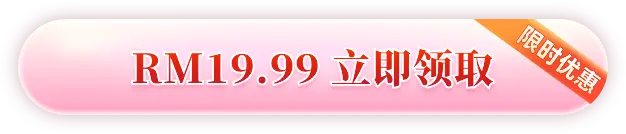
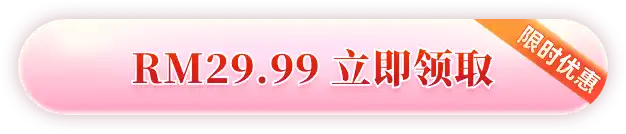
feat:感情运报告修改价格

diff --git a/src/components/PayItem.vue b/src/components/PayItem.vue
@@ -1,0 +1,153 @@
+<template>
+  <div class="pay-item">
+    <div class="pay-contaienr">
+      <div class="left">
+        <div class="title">您有待支付订单</div>
+        <div class="desc">已根据您的八字信息成功生成「报告」</div>
+      </div>
+      <div class="right">立即支付</div>
+    </div>
+    <div class="time">
+      <div>请在</div>
+      <count-down :time="time" @change="getTime" />
+      <div>内完成支付</div>
+    </div>
+
+  </div>
+
+</template>
+
+<script>
+import utils from '../libs/utils';
+import { getLastOrderGetAPI } from '../api/api';
+const lang = utils.getLanguage();
+const show_info = {
+  h5_wealth2024: {module: 10005, 'content_id': -10020, 'event_name': 'view_2024wealty_download', type: 'view'}, // 2024年财运
+  h5_annual2024: {module: 10003, 'content_id': -10020, 'event_name': 'view_2024report_download', type: 'view'}, // 2024年年运
+  h5_weigh_bone: {module: 10009, 'content_id': -10020, 'event_name': 'view_chenggu_download', type: 'view'}, // 袁天罡秤骨
+  h5_bai_gua: {module: 10008, 'content_id': -10020, 'event_name': 'view_64gua_download', type: 'view'}, // 鬼谷子
+  h5_emotion2024: {module: 10006, 'content_id': -10029, 'event_name': 'view_2024lovely_download', type: 'view'}, // 2024年爱情运势
+  h5_marriage: {module: 10007, 'content_id': -10031, 'event_name': 'view_marriage_download', type: 'view'}, //合婚
+  h5_career2024: {module: 10004, 'content_id': -10020, 'event_name': 'view_2024career_download', type: 'view'}, // 2024年事业运势 
+}
+import { CountDown } from 'vant';
+export default {
+  components: {
+    CountDown,
+  },
+  data() {
+    return {
+      time: 0 * 1 * 60 * 1000,
+      last_order: null,
+    };
+  },
+  props: {
+    product_key: {
+      type: String,
+      default: 'h5_emotion2024'
+    },
+  },
+
+  async created() {
+    const res = await getLastOrderGetAPI();
+    console.log('res', res)
+    if (res.status !== 1000) return;
+    this.last_order = res.data;
+  },
+
+  computed: {
+    user_number() {
+      return this.$store.state.year_user;
+    },
+  },
+  methods: {
+    getTime(val) {
+      const { minutes, seconds } = val;
+      let time_ = minutes * seconds * 60 * 1000;
+      localStorage.setItem(`mlxz_count_pay_item_${this.product_key}`, time_);
+    },
+  },
+};
+</script>
+
+<style scoped lang="less">
+.pay-item {
+  width: 7.1rem;
+  height: 2.04rem;
+  background: linear-gradient(180deg, #FDFAEC 0%, #FFF5D8 100%);
+  border-radius: 0.2rem;
+  display: flex;
+  flex-direction: column;
+  align-items: center;
+  padding-left: 0.24rem;
+  padding-right: 0.24rem;
+  padding-top: 0.15rem;
+  padding-bottom: 0.24rem;
+  margin-bottom: 0.37rem;
+
+  .pay-contaienr {
+    display: flex;
+    width: 100%;
+    justify-content: space-between;
+    align-items: center;
+
+    .left {
+      display: flex;
+      flex-direction: column;
+
+      .title {
+        font-weight: 600;
+        font-size: 0.36rem;
+        color: #602E03;
+        line-height: 0.54rem;
+        text-align: left;
+        font-style: normal;
+      }
+
+      .desc {
+        font-weight: 400;
+        font-size: 0.26rem;
+        color: #602E03;
+        line-height: 0.39rem;
+        text-align: left;
+        font-style: normal;
+      }
+    }
+
+    .right {
+      width: 1.68rem;
+      height: 0.74rem;
+      background: linear-gradient(180deg, #F47553 0%, #E92424 99%);
+      border-radius: 0.2rem;
+      border: 0.02rem solid #FFFBED;
+      font-weight: 600;
+      font-size: 0.3rem;
+      color: #FFFAEE;
+      line-height: 0.3rem;
+      text-align: left;
+      font-style: normal;
+      display: flex;
+      justify-content: center;
+      align-items: center;
+    }
+  }
+
+  .time {
+    width: 6.62rem;
+    height: 0.5rem;
+    background: #FFF2CF;
+    border-radius: 0.12rem;
+    border: 0.01rem solid #F6B87E;
+    margin-top: 0.18rem;
+    font-weight: 600;
+    font-size: 0.26rem;
+    color: #E24C2E;
+    line-height: 0.26rem;
+    text-align: right;
+    font-style: normal;
+    display: flex;
+    justify-content: center;
+    align-items: center
+  }
+}
+</style>

diff --git a/template/index.html b/template/index.html
@@ -74,6 +74,44 @@
 
     <script async src="https://cdn.jsdelivr.net/npm/echarts@5.4.1/dist/echarts.min.js"></script>
 
+    <script>
+      
+      function getQueryStr(key) {
+        if (typeof window !== 'undefined') {
+          let url = location.hash;
+          let theRequest = new Object();
+          if (url.indexOf('?') != -1) {
+            let str = url.substr(1).split('?')[1];
+            let strs = str.split('&');
+            for (let i = 0; i < strs.length; i++) {
+              theRequest[strs[i].split('=')[0]] = decodeURI(strs[i].split('=')[1]);
+            }
+          }
+          return theRequest[key] == null ? '' : theRequest[key];
+        }
+      }
+      function setCookie(name, value, days, path) {
+        var expires = "";
+        if (days) {
+          var date = new Date();
+          date.setTime(date.getTime() + (days * 24 * 60 * 60 * 1000));
+          expires = "; expires=" + date.toUTCString();
+        }
+        document.cookie = name + "=" + encodeURIComponent(value) + expires + "; path=" + (path || "/");
+      }
+      if(getQueryStr('_fbc')||getQueryStr('_fbq')) {
+        setCookie("_fbc", getQueryStr('_fbc'), 7, "/");
+        setCookie("_fbq", getQueryStr('_fbq'), 7, "/");
+      }
+
+      if(getQueryStr('mlxz_outer_open_uid')|| getQueryStr('mlxz_outer_access_token') ||getQueryStr('mlxz_outer_visitor_id')) {
+        localStorage.setItem('mlxz_outer_open_uid', getQueryStr('mlxz_outer_open_uid'));
+        localStorage.setItem('mlxz_outer_access_token', getQueryStr('mlxz_outer_access_token'));
+        localStorage.setItem('mlxz_outer_visitor_id', getQueryStr('mlxz_outer_visitor_id'));
+      }
+      
+    </script>
+
     <!-- <script>
       //兼容客户端方法
       window.callbackEtouchUserInfo = function () {
@@ -249,8 +287,10 @@
     <script async src="../js/swiper-3.3.1.jquery.min.js"></script>
     <!--content-->
     <div id="app" data-own="1"></div>
+
     <script>
       !(function (d, w) {
+
         const cookieMap = new Map();
 
         document.cookie.split("; ").forEach((cookie) => {

diff --git a/src/pages/emotion_fortune/detail/index.vue b/src/pages/emotion_fortune/detail/index.vue
@@ -7,7 +7,7 @@
       :src="is_cn ? cn_info_title : tw_info_title"
       alt=""
     />
-
+    
     
     <div :class="{ 'pay-box': true, 'cn-bg': is_cn, 'tw-bg': !is_cn }">
       <BaziTable
@@ -41,6 +41,7 @@
       >
       </BaziTable>
     </div>
+    <!-- <PayItem product_key="h5_emotion2024"/> -->
     <div :class="['method-box', !is_show_combination ? 'method-height' : null]">
       <img
         id="method-title-img"
@@ -151,6 +152,7 @@ import NewFooter from '../../../components/NewFooter.vue';
 import GejuInfo from '../../../components/GejuInfo.vue';
 import AnimationPage from '../../../components/AnimationPage.vue';
 import FbShareNotice from '../../../components/FbShareNotice.vue';
+import PayItem from '../../../components/PayItem.vue';
 
 export default {
   components: {
@@ -164,6 +166,7 @@ export default {
     GejuInfo,
     AnimationPage,
     FbShareNotice,
+    PayItem,
   },
   data() {
     return {
@@ -482,6 +485,7 @@ export default {
       this.pay_modal = true;
     },
     payOrder() {
+  
       this.$refs.payDetail.payMoney();
     },
   },
@@ -524,7 +528,7 @@ export default {
   background: #ec436b;
 
   .pay-box {
-    margin-bottom: 0.49rem;
+    margin-bottom: 0.3rem;
     width: 7.1rem;
     height: 7.09rem;
     padding-top: 1.1rem;

diff --git a/src/api/api.js b/src/api/api.js
@@ -188,3 +188,9 @@ export const getLastOrderAPI = async data => {
   await visitorLoginAPI();
   return request(`/web/auth/trade/orders/ce_suan/recent`, 'POST', data);
 };
+
+//查询最近一笔订单get请求
+export const getLastOrderGetAPI = async data => {
+  await visitorLoginAPI();
+  return request(`/web/auth/trade/orders/ce_suan/recent`, 'GET', data);
+};

diff --git a/src/api/request.js b/src/api/request.js
@@ -18,7 +18,7 @@ let originUrl = window.location.href;
 const projectEnv = env => {
   return originUrl.indexOf(env) > -1 ? true : false;
 };
-if (projectEnv('192.168') || projectEnv('localhost')) {
+if (projectEnv('192.168') || projectEnv('172') || projectEnv('localhost')) {
   baseURL = devBaseUrl;
 } else if (projectEnv('test')) {
   baseURL = testBaseURL;
